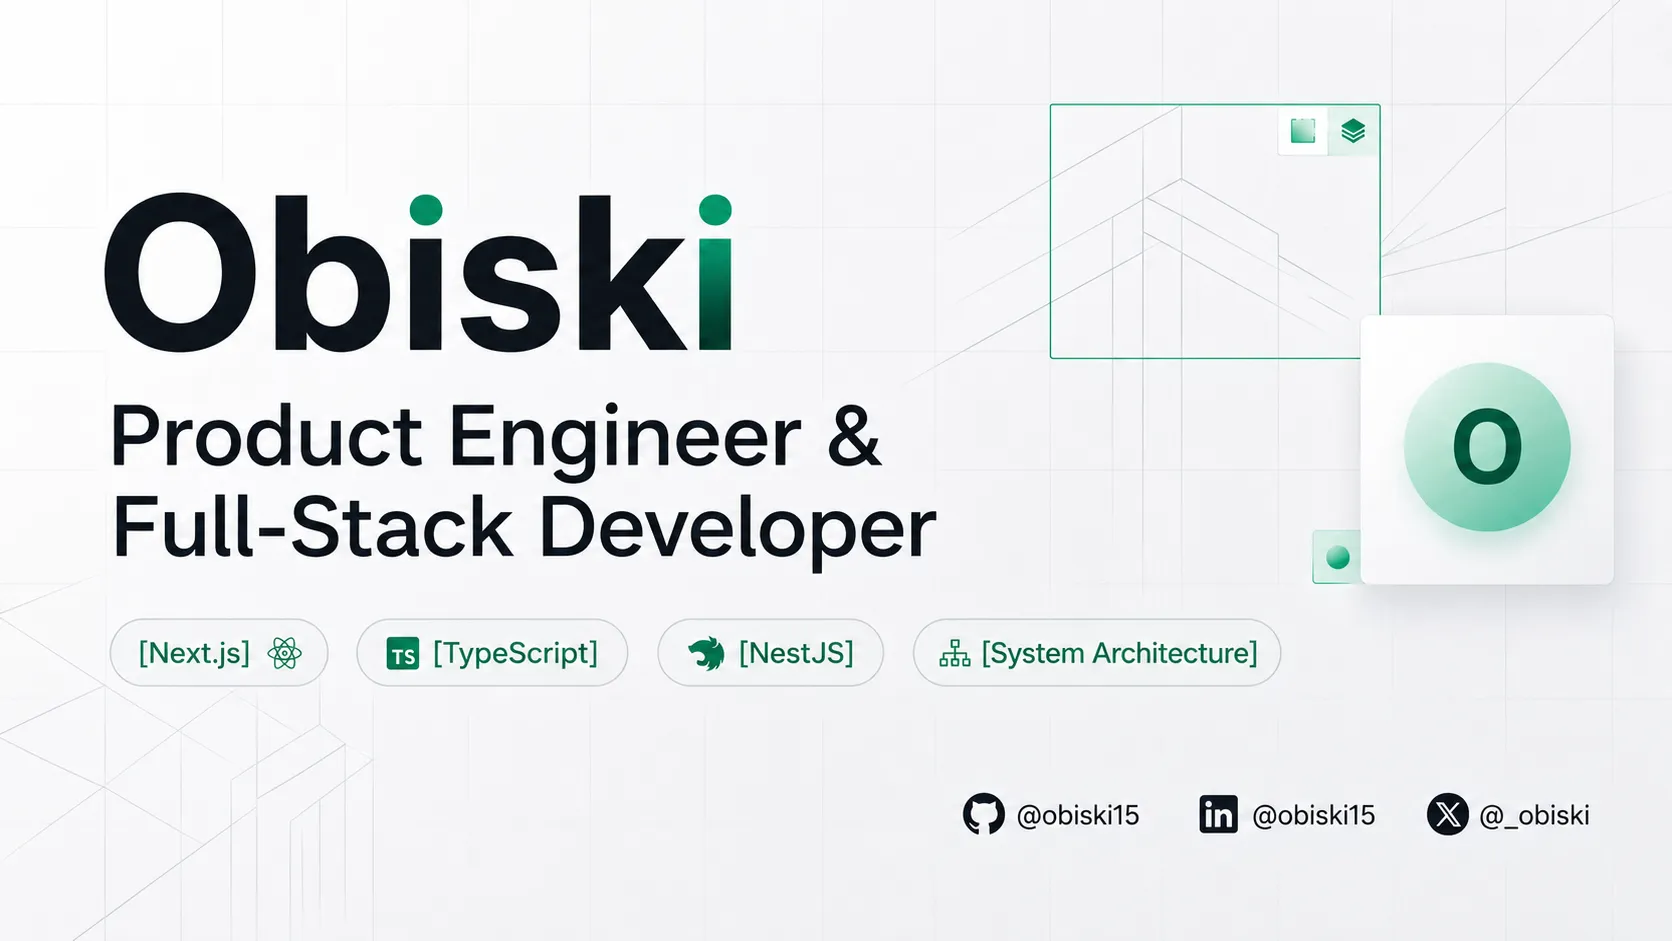
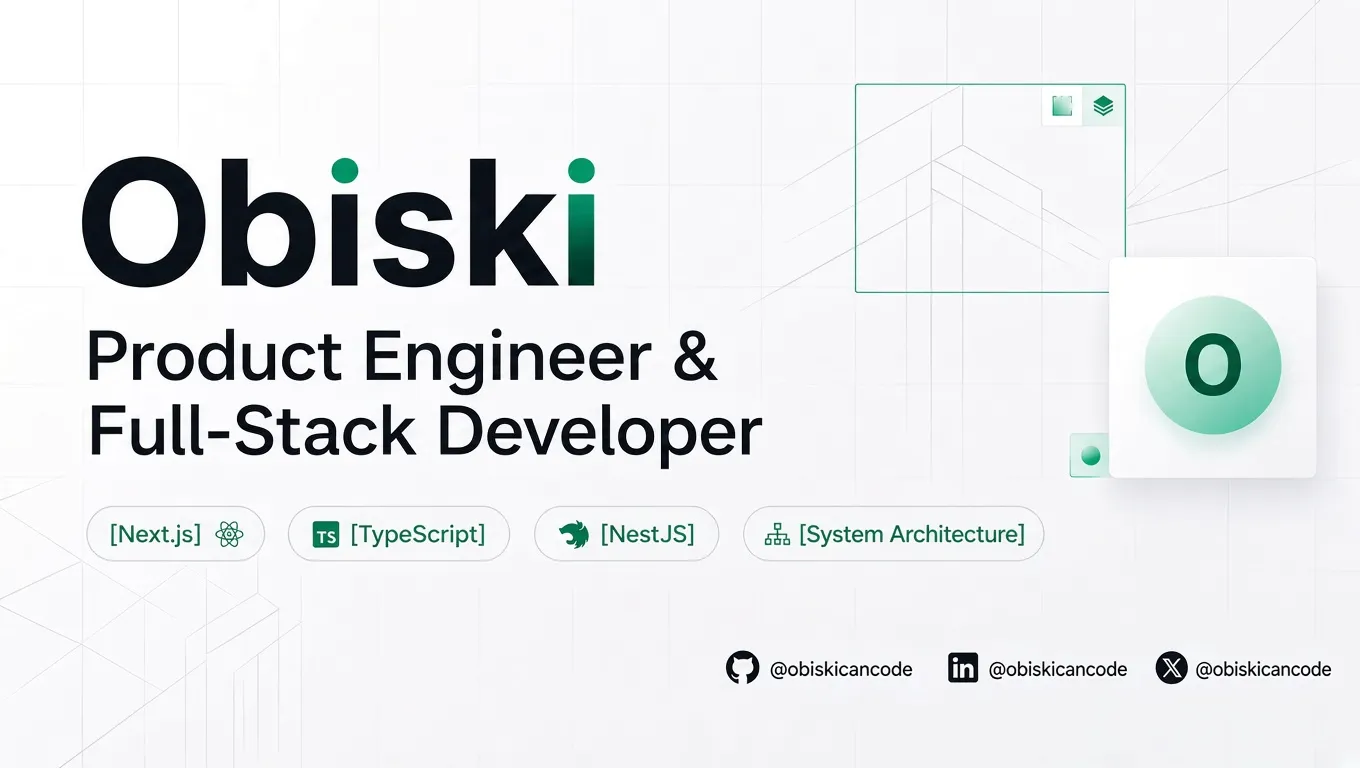
chore: updated social usernames

diff --git a/constants/index.ts b/constants/index.ts
@@ -64,7 +64,7 @@ export const projects: IProject[] = [
       },
     },
     links: {
-      github: 'https://github.com/Obiski15/Headless-Commerce-Engine',
+      github: 'https://github.com/obiskicancode/Headless-Commerce-Engine',
       live: '',
     },
   },
@@ -90,7 +90,7 @@ export const projects: IProject[] = [
       },
     },
     links: {
-      github: 'https://github.com/Obiski15/Origin',
+      github: 'https://github.com/obiskicancode/Origin',
       live: '',
     },
   },
@@ -116,7 +116,7 @@ export const projects: IProject[] = [
       },
     },
     links: {
-      github: 'https://github.com/Obiski15/Distributed-Notification-System',
+      github: 'https://github.com/obiskicancode/Distributed-Notification-System',
       live: '',
     },
   },
@@ -135,7 +135,7 @@ export const projects: IProject[] = [
       },
     },
     links: {
-      github: 'https://github.com/Obiski15/log-analyzer-agent',
+      github: 'https://github.com/obiskicancode/log-analyzer-agent',
       live: '',
     },
   },
@@ -157,7 +157,7 @@ export const projects: IProject[] = [
       },
     },
     links: {
-      github: 'https://github.com/Obiski15/Paystack-Wallet-Service',
+      github: 'https://github.com/obiskicancode/Paystack-Wallet-Service',
       live: '',
     },
   },
@@ -183,7 +183,7 @@ export const projects: IProject[] = [
       },
     },
     links: {
-      github: 'https://github.com/Obiski15/link-sharing-app/',
+      github: 'https://github.com/obiskicancode/link-sharing-app/',
       live: 'https://tinyurl.com/cah2yhdh',
     },
   },
@@ -209,7 +209,7 @@ export const projects: IProject[] = [
       },
     },
     links: {
-      github: 'https://github.com/Obiski15/notes',
+      github: 'https://github.com/obiskicancode/notes',
       live: 'https://tinyurl.com/e65r9cdd',
     },
   },

diff --git a/app/layout.tsx b/app/layout.tsx
@@ -2,11 +2,11 @@ import BackToTop from '@/components/ui/BackToTop'
 import Footer from '@/components/ui/Footer'
 import Navigation from '@/components/ui/Navigation'
 import { Toaster } from '@/components/ui/sonner'
+import config from '@/config'
 import { GoogleAnalytics } from '@next/third-parties/google'
 import type { Metadata } from 'next'
 import { ThemeProvider } from 'next-themes'
 import { Geist, Geist_Mono } from 'next/font/google'
-import config from '@/config'
 import './globals.css'
 
 const geist = Geist({
@@ -50,7 +50,7 @@ export const metadata: Metadata = {
     description:
       'Full-Stack Product Engineer building scalable systems and exceptional digital products.',
     images: ['/images/og-image.webp'],
-    creator: '@_obiski',
+    creator: '@obiskicancode',
   },
   robots: {
     index: true,
@@ -67,9 +67,9 @@ const personJsonLd = {
   image: `${config.SITE.baseUrl}/images/me.webp`,
   jobTitle: 'Product Engineer & Full-Stack Developer',
   sameAs: [
-    'https://github.com/Obiski15',
-    'https://linkedin.com/in/obiski15',
-    'https://x.com/_obiski',
+    'https://github.com/obiskicancode',
+    'https://linkedin.com/in/obiskicancode',
+    'https://x.com/obiskicancode',
   ],
   knowsAbout: [
     'Backend Architecture',

diff --git a/components/ui/SocialLinks.tsx b/components/ui/SocialLinks.tsx
@@ -5,17 +5,17 @@ import { Mail } from 'lucide-react'
 export const socialLinks = [
   {
     name: 'GitHub',
-    url: 'https://github.com/Obiski15',
+    url: 'https://github.com/obiskicancode',
     icon: GithubIcon,
   },
   {
     name: 'LinkedIn',
-    url: 'https://linkedin.com/in/obiski15',
+    url: 'https://linkedin.com/in/obiskicancode',
     icon: LinkedinIcon,
   },
   {
     name: 'X (Twitter)',
-    url: 'https://x.com/_obiski',
+    url: 'https://x.com/obiskicancode',
     icon: XIcon,
   },
   {

diff --git a/app/page.tsx b/app/page.tsx
@@ -10,7 +10,7 @@ interface GithubRepo {
 
 async function getGithubRepoCount() {
   try {
-    const res = await fetch('https://api.github.com/users/obiski15/repos?per_page=100', {
+    const res = await fetch('https://api.github.com/users/obiskicancode/repos?per_page=100', {
       next: { revalidate: 3600 },
     })
     if (!res.ok) return '7+'

diff --git a/README.md b/README.md
@@ -14,5 +14,5 @@ I am a Fullstack Developer and based in Lagos. I specialize in building scalable
 
 ## 📫 Connect With Me
 * **Portfolio:** [obiski.vercel.app](https://obiski.vercel.app)
-* **LinkedIn:** [https://linkedin.com/in/obiski15](https://www.linkedin.com/in/obiski15/)
+* **LinkedIn:** [https://linkedin.com/in/obiskicancode](https://www.linkedin.com/in/obiskicancode/)
 * **Email:** [obiski15@gmail.com](mailto:obiski15@gmail.com)
